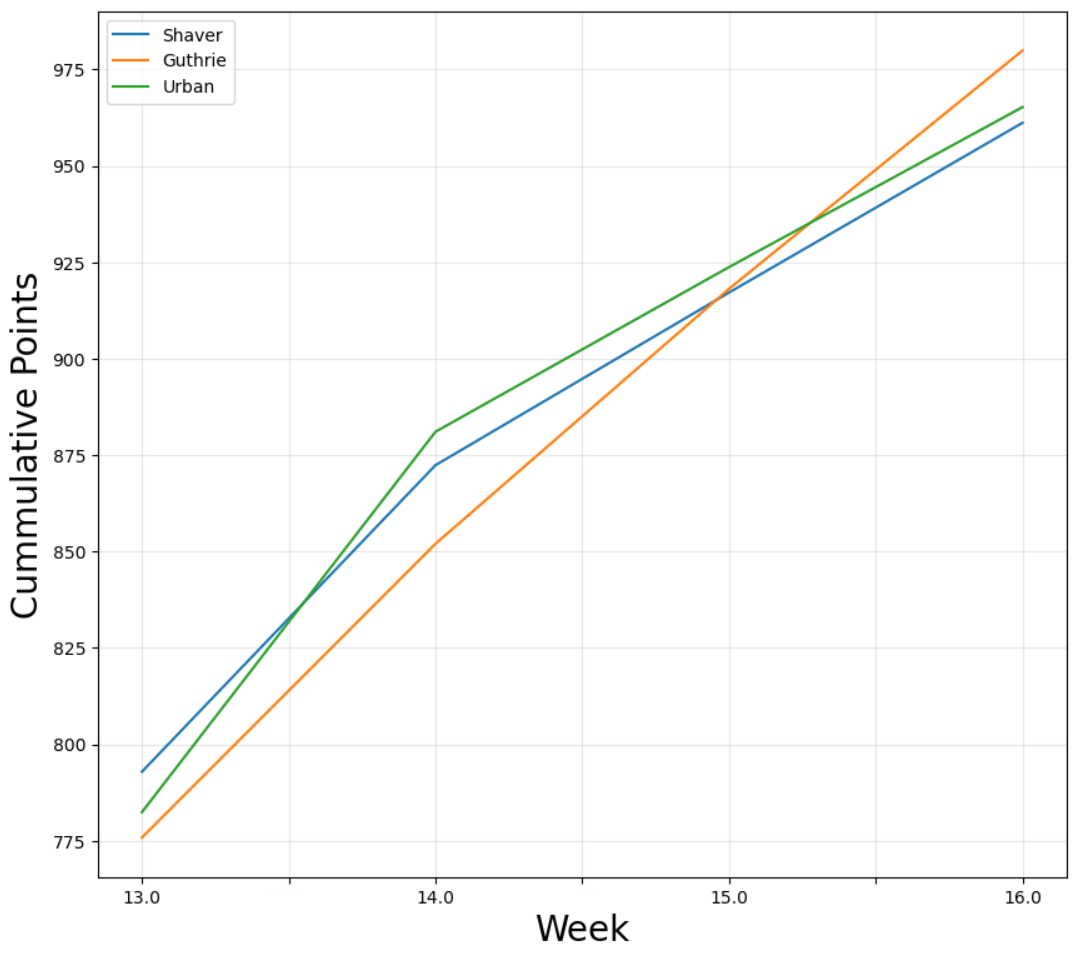
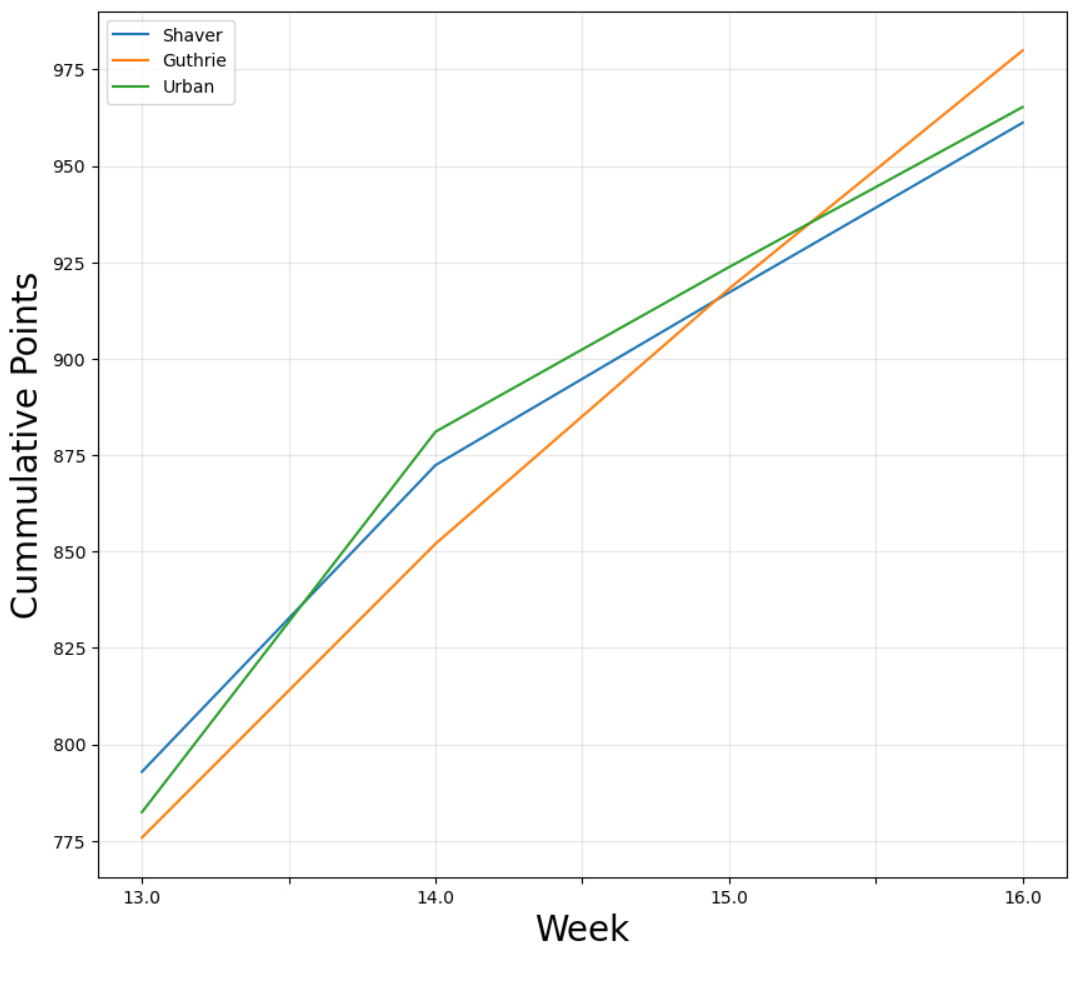
More Image Adjusting

diff --git a/sixteams2023.html b/sixteams2023.html
@@ -12,10 +12,17 @@
 		<link rel="stylesheet" href="assets/css/main.css" />
 		<style>
 			.myDiv {
-				max-width:50%;
+				max-width:60%;
 				height: auto;
 				float: right;
-				margin: 25px;
+				margin: 30px;
+
+			}
+			.myDiv1 {
+				max-width:50%;
+				height: auto;
+				float: left;
+				margin: 30px;
 
 			}
 			.imgTxt {
@@ -82,12 +89,12 @@
 									collapsed to 1-3. However, the losses don't tell the complete story. 	
 								</p>
 								<section>
+									<div class = "myDiv1">
+										<a class="image featured"><img src="images/playoffrace.PNG" alt="" /></a>
+									</div>
 									<header>
 										<h3>Strength of Schedules</h3>
 									</header>
-									<div class = "myDiv">
-										<a class="image featured"><img src="images/playoffrace.PNG" alt="" /></a>
-									</div>
 									<p class = "imgText";>
 										4 weeks ago, Shaver led the trio at 792 points, with Guthrie and Urban trailing at 775.5 and 782.4 points respectively. However, despite going 1-3, Guthrie emerged
 										as the high point team in the trio during that time period. Both Guthrie and Shaver arguably had an equally difficult schedule, each squaring off against Misener and 
@@ -113,13 +120,26 @@
 									</p>
 								</section>
 								<section>
+									<div class = "myDiv">
+										<a class="image featured"><img src="images/aug3standings.PNG" alt="" /></a>
+									</div>
 									<header>
 										<h3>Estimations</h3>
 									</header>
 									<p>
-										Shaver's magic number to make the playoffs is 5. If he wins all 5 remainnig games in the season, he won't have any issues. However just a single loss opens up a pandora's box of
+										Shaver's magic number to make the playoffs is 5. If he wins all 5 remaining games in the season, he won't have any issues. However just a single loss opens up a pandora's box of
 										disasterous possibilies. It's possible for all 3 teams to finish 14-7, in which case the 3-way tiebreaker will come down to points scored. Guthrie's most critical game comes against 
 										Shaver this week. A loss here would put him 2 games behind Shaver and potentially a game behind Urban. 
+									</p>
+								</section>
+								<section>
+									<header>
+										<h3>Rest of the League</h3>
+									</header>
+									<p>
+										By now, Lenneman, Misener and MacPherson are emerging as the clear favorites to win it all in September. All three of them have scored over 100 more points than Shaver in 4th. 
+										While Aparicio managed to pick up a handful of wins, it is doubtful they will be able to end his monopoly on last place. Dodson by far has the fewest points scored against her. 
+										Is it a conspiracy by the AI? We will never know.  
 									</p>
 								</section>
 							</article>
